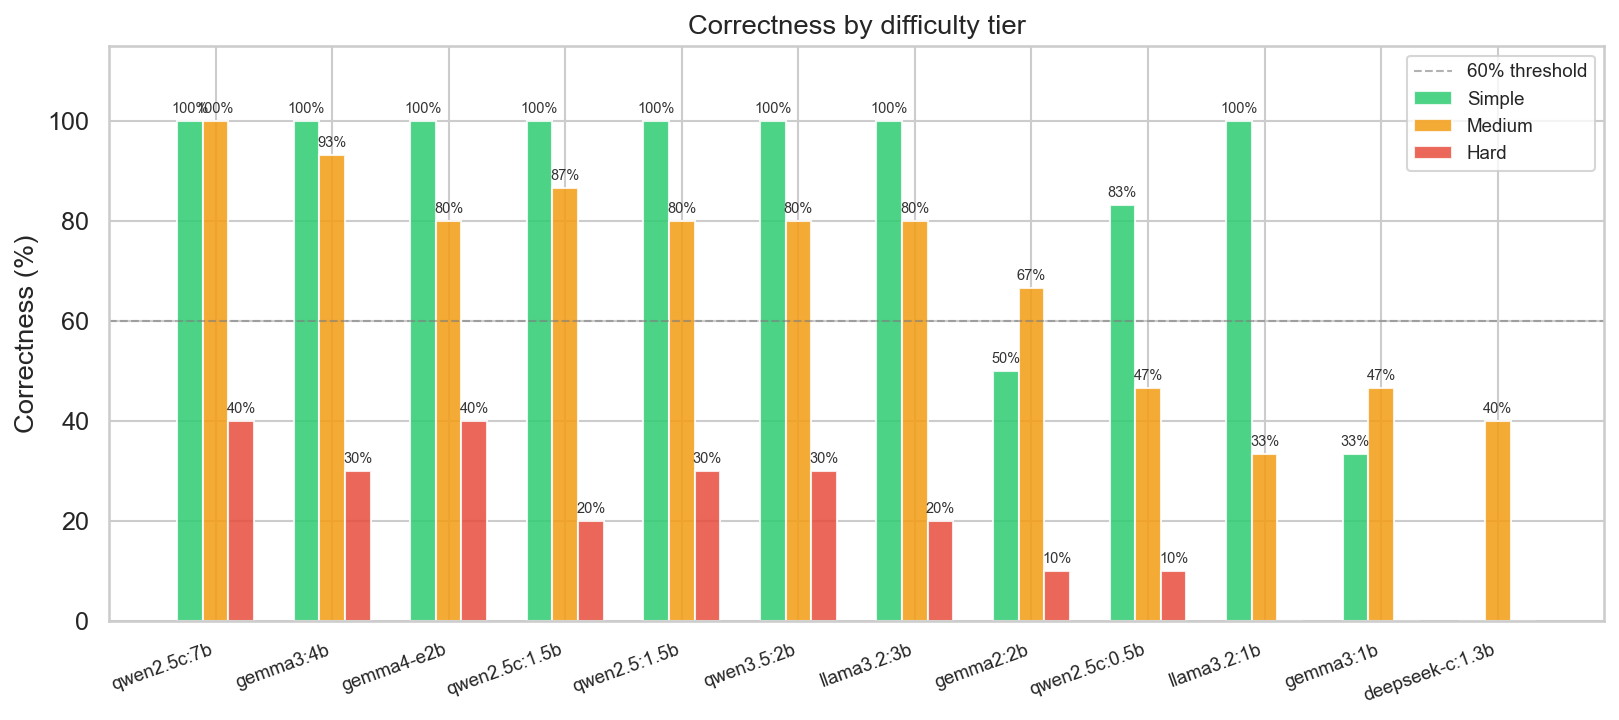
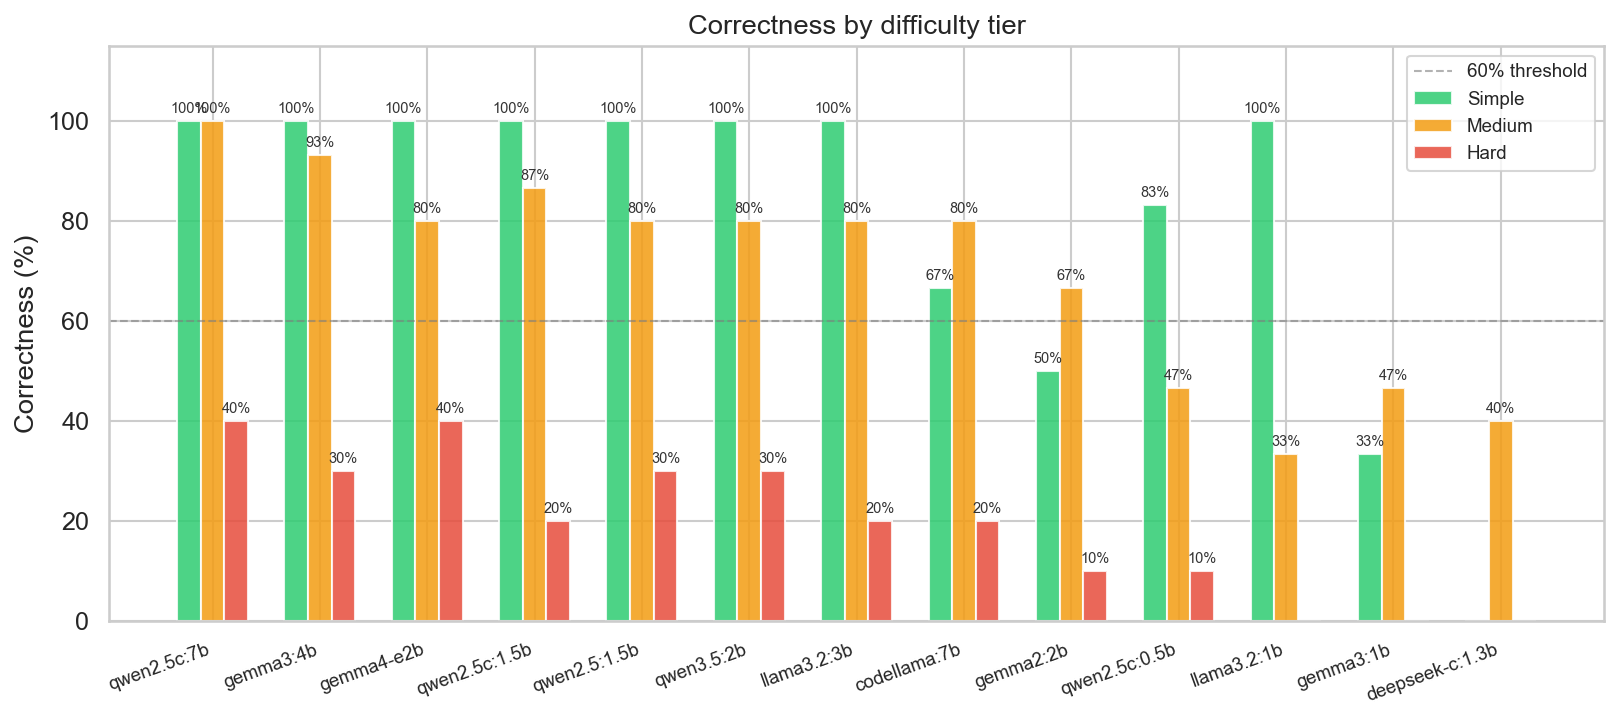
extra model testing

diff --git a/eval/charts.py b/eval/charts.py
@@ -19,7 +19,7 @@ OUT_DIR.mkdir(exist_ok=True)
 
 # Memory tier per model — matches decisions.md §7
 TIER_5GB = {"gemma3:4b", "qwen3.5:2b", "llama3.2:3b", "gemma2:2b"}
-TIER_8GB = {"qwen2.5-coder:7b", "qwen3.5:4b", "gemma4:e2b"}
+TIER_8GB = {"qwen2.5-coder:7b", "qwen3.5:4b", "gemma4:e2b", "codellama:7b"}
 COLOR_4GB = "#27ae60"
 COLOR_5GB = "#e67e22"
 COLOR_8GB = "#8e44ad"
@@ -83,9 +83,9 @@ def chart_correctness_vs_latency(data):
     ax.set_ylim(0, 85)
 
     legend_handles = [
-        mpatches.Patch(color=COLOR_4GB, label="≤ 4 GB Docker (standard)"),
-        mpatches.Patch(color=COLOR_5GB, label="5 GB Docker (ampliado)"),
-        mpatches.Patch(color=COLOR_8GB, label="8 GB Docker (avanzado)"),
+        mpatches.Patch(color=COLOR_4GB, label="≤ 4 GB Docker (reduced)"),
+        mpatches.Patch(color=COLOR_5GB, label="5 GB Docker (standard)"),
+        mpatches.Patch(color=COLOR_8GB, label="8 GB Docker (advanced)"),
         plt.Line2D([0], [0], color="grey", linestyle="--", label="60% threshold"),
     ]
     ax.legend(handles=legend_handles, fontsize=9, loc="upper left")

diff --git a/decisions.md b/decisions.md
@@ -185,6 +185,7 @@ All run via Ollama with Q4_K_M quantization on CPU.
 |---|---|---|---|---|---|
 | `qwen2.5-coder:7b` | Alibaba | 7.6 B | 4.7 GB | ~5.5 GB | Code/SQL (fine-tuned) |
 | `gemma4:e2b` | Google | ~4 B (quantized) | 3.7 GB | ~7.2 GB | General |
+| `codellama:7b` | Meta | 7 B | 3.8 GB | ~5.0 GB | Code (general, not SQL-specialized) |
 
 ---
 
@@ -202,6 +203,7 @@ Expanded suite of **31 questions** (21 ES + 10 EN) across 3 difficulty levels. A
 | `qwen3.5:2b`† | 96.8% | 67.7% | 66.7% | 70.0% | 28.4 s | 0.13 | ~4.0 GB | Unacceptable latency (think=false) |
 | **`qwen2.5-coder:1.5b`** | **100%** | 64.5% | 66.7% | 60.0% | **1.5 s** | **0.10** | ~1.2 GB | ⭐ Selected (Docker 4 GB) |
 | `llama3.2:3b` | 100% | 64.5% | 61.9% | 70.0% | 2.4 s | 0.16 | ~2.0 GB | Good (more RAM) |
+| `codellama:7b`¶ | 96.8% | 58.1% | 61.9% | 50.0% | 8.7 s | 0.10 | ~5.0 GB | Below threshold; weak in English |
 | `qwen2.5:1.5b` | 100% | 54.8% | 61.9% | 40.0% | 1.6 s | 0.00 | ~1.2 GB | Below threshold |
 | `llama3.2:1b` | 96.8% | 41.9% | 33.3% | 60.0% | 1.6 s | 0.29 | ~1.5 GB | Insufficient |
 | `gemma2:2b` | 93.5% | 38.7% | 33.3% | 50.0% | 2.8 s | 0.23 | ~2.5 GB | Insufficient |
@@ -209,7 +211,7 @@ Expanded suite of **31 questions** (21 ES + 10 EN) across 3 difficulty levels. A
 | `gemma3:1b` | 61.3% | 32.3% | 28.6% | 40.0% | 1.3 s | 1.32 | ~1.0 GB | Below threshold |
 | `deepseek-coder:1.3b` | 0% | 0% | 0% | 0% | — | — | ~1.0 GB | HTTP 500 error‡ |
 | `qwen3.5:4b` | N/A | — | — | — | — | — | >5 GB | Extreme latency (>150 s/q)∥ |
-| `sqlcoder:7b` | N/A | — | — | — | — | — | ~5 GB | Incompatible prompt§ |
+| `sqlcoder:7b` | N/A | — | — | — | — | — | ~5 GB | Incompatible prompt § |
 
 > † `gemma3:4b` and `qwen3.5:2b` require `num_ctx=4096` to fit in Docker 5 GB. Without that cap, Ollama pre-allocates KV cache for 32K–128K token contexts that exceed the limit. With the cap, quality is unaffected: our prompts are ~350 tokens in the worst case.
 
@@ -217,7 +219,7 @@ Expanded suite of **31 questions** (21 ES + 10 EN) across 3 difficulty levels. A
 
 > § `sqlcoder:7b` uses a `### Task / ### Database Schema / ### Answer` template incompatible with the system's standard instruct prompt. Manually tested: generates explanatory text instead of SQL with the current prompt.
 
-> ¶ `qwen2.5-coder:7b` and `gemma4:e2b` require Docker 8 GB (≥7 GB RAM available for Ollama). Not suitable for 5 GB Docker hardware.
+> ¶ `qwen2.5-coder:7b`, `gemma4:e2b`, and `codellama:7b` require Docker 8 GB (≥5 GB RAM available for Ollama after other services). Not suitable for 5 GB Docker hardware.
 
 > ∥ `qwen3.5:4b` produces indefinite hangs on complex queries even with `think=false`. Discarded for latency and instability.
 
@@ -380,19 +382,17 @@ The following strategies are implemented to maximize reliability:
 
 The following models were investigated during the selection process but **could not be evaluated with complete metrics** due to hardware constraints or not being executable locally on the reference hardware.
 
-### 9a. Require hardware above reference
+### 9a. Evaluated with 8 GB Docker — below threshold
 
-These models are open-source and executable locally via Ollama, but their memory requirement excludes them from the reference hardware (MacBook Air 8 GB / Docker 5 GB).
+These models were re-evaluated after extending Docker to 8 GB. They run without OOM errors but fail the correctness or SQL validity thresholds, or are architecturally unsuitable for instruction-following prompts.
 
-| Model | Parameters | Est. RAM | Reason for exclusion |
-|---|---|---|---|
-| `llama3.2:3b` | 3.2 B | ~3.0 GB | Requires ≥8 GB RAM / 4 GB Docker. OOM in restricted environment. |
-| `gemma2:2b` (Google) | 2.6 B | ~2.5 GB | Borderline on standard reference. OOM in restricted environment. |
-| `codellama:7b` (Meta) | 7 B | ~5.0 GB | Same memory problem as qwen2.5-coder:7b. |
-| `mistral:7b` (Mistral AI) | 7 B | ~5.0 GB | General purpose; requires 16 GB RAM. |
-| `starcoder2:3b` (BigCode) | 3 B | ~2.5 GB | Code-specialized; requires ≥4 GB Docker. |
-| `phi3:mini` (Microsoft) | 3.8 B | ~2.8 GB | Requires ≥4 GB Docker for stable inference. |
-| `phi3.5:mini` (Microsoft) | 3.8 B | ~2.8 GB | Same constraint as phi3:mini. |
+| Model | Parameters | Est. RAM | SQL% | OK% | Reason for rejection |
+|---|---|---|---|---|---|
+| `codellama:7b` (Meta) | 7 B | ~5.0 GB | 96.8% | 58.1% | Below 60% correctness threshold; 22 points behind `qwen2.5-coder:7b` at the same tier. Weak in English (50%). Full results in 6a. |
+| `starcoder2:3b` (BigCode) | 3 B | ~2.5 GB | ~0% | 0% | Base code-completion model, not instruction-tuned. Does not understand the chat/system-prompt format — outputs code-completion text rather than SQL. No instruct variant available on Ollama at this size. |
+| `phi3.5` (Microsoft) | 3.8 B | ~2.8 GB | ~0% | 0% | Instruction-following model but prepends natural language prose to the SQL response despite being instructed not to (e.g. "Here is the query:"). `clean_sql` only strips markdown fences, not prose prefixes — SQLite rejects the output. SQL validity collapses to ~0%. |
+
+**`mistral:7b`** was not tested: it is general-purpose (not code/SQL-specialized) and unlikely to outperform `qwen2.5-coder:7b` at the same memory tier. **`phi3:mini`** was skipped in favour of the newer `phi3.5`.
 
 ### 9b. Available only as API (not locally executable)
 